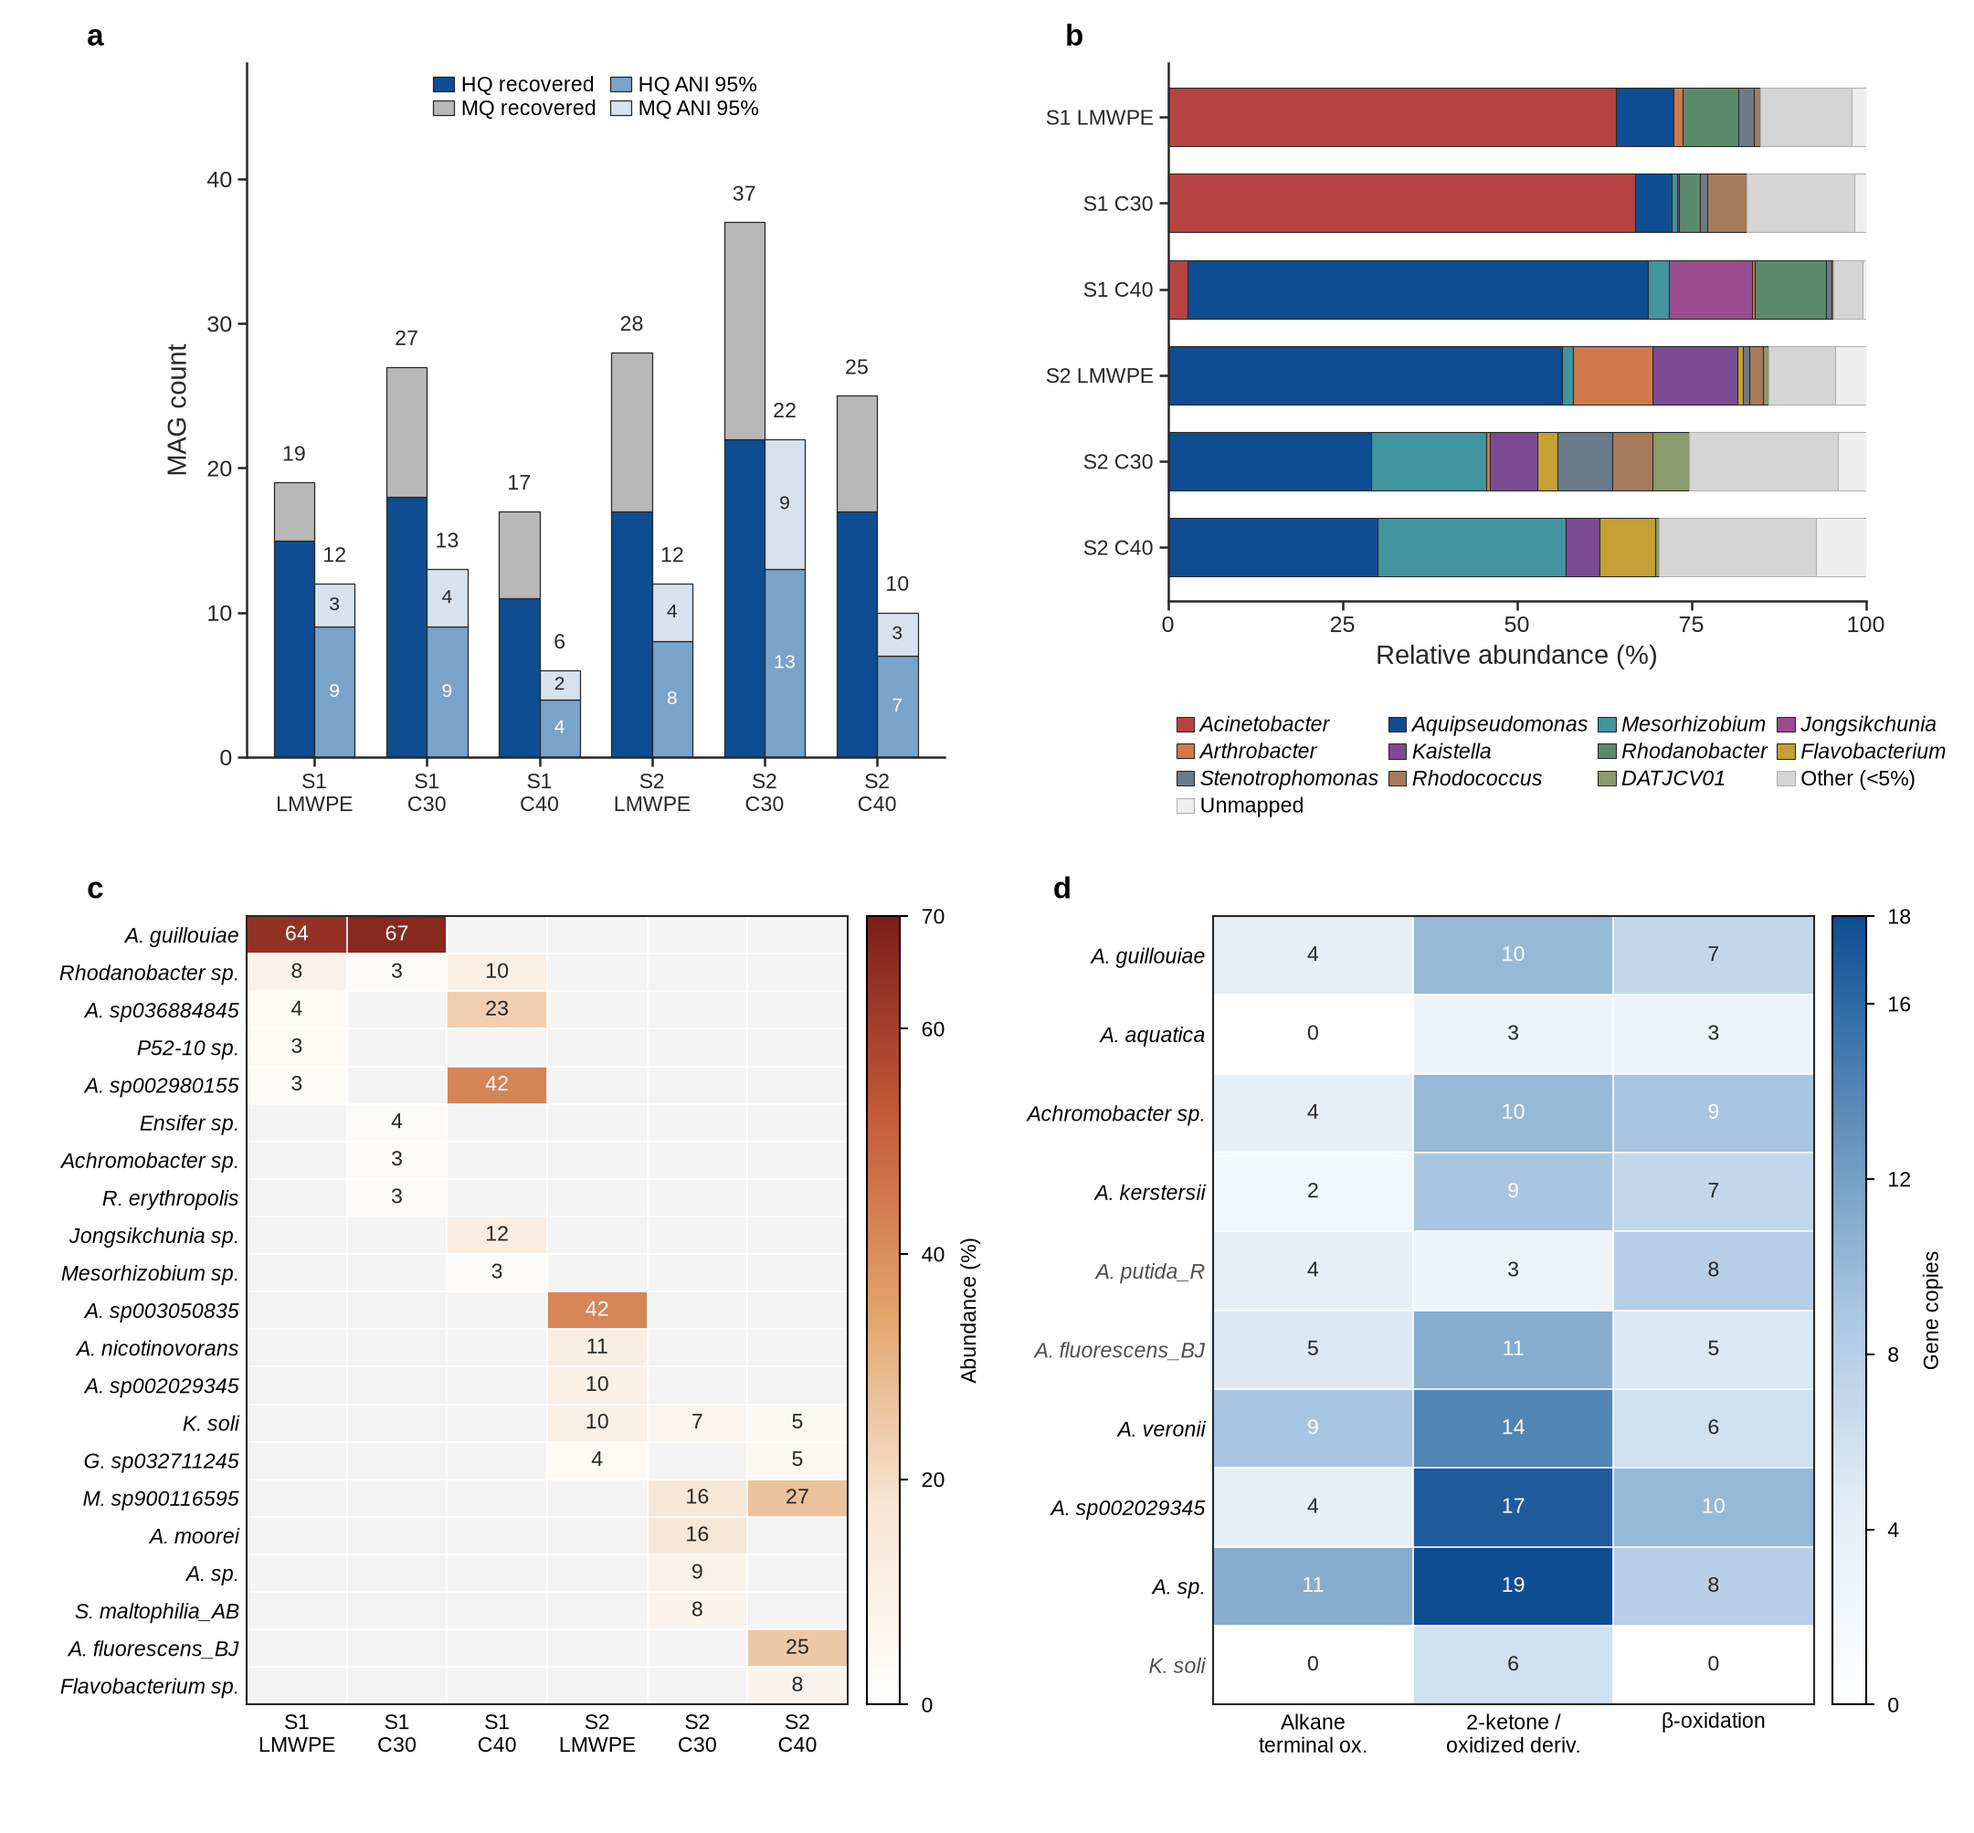
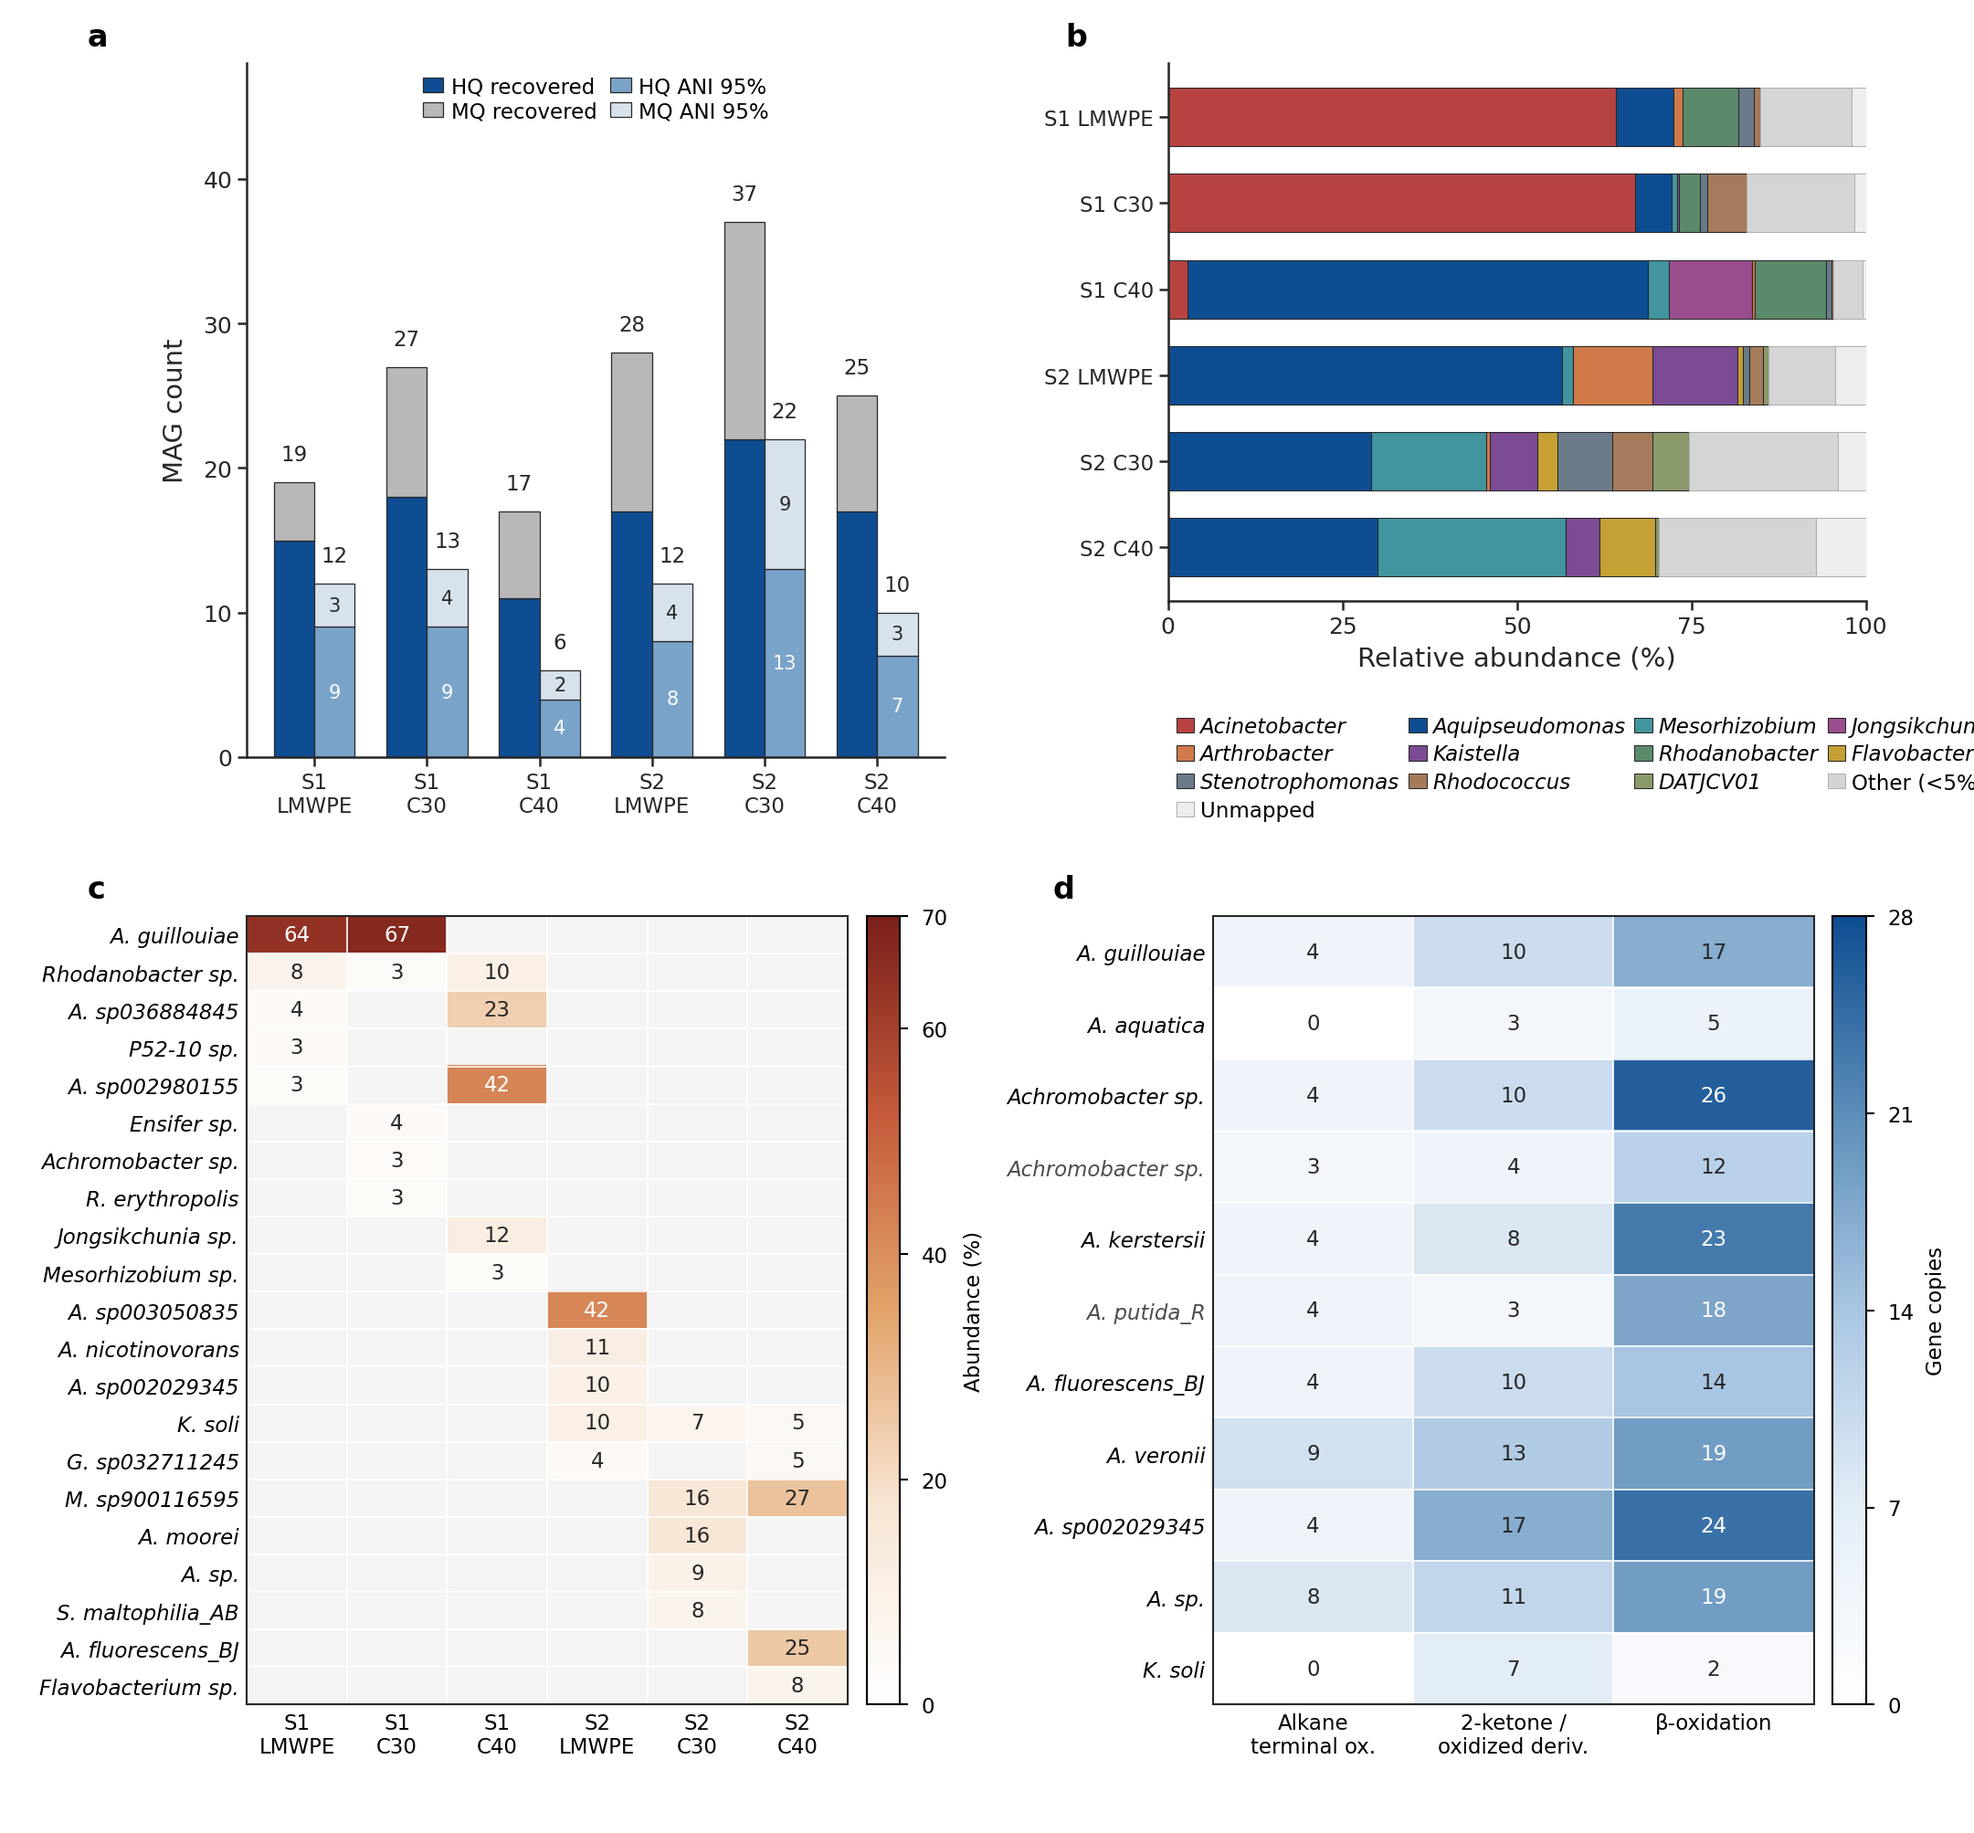
updated

diff --git a/papers/main.tex b/papers/main.tex
@@ -470,17 +470,16 @@ interest in the original study
 in the reference taxonomy.
 
 To examine the metabolic potential of the ten taxonomic groups emphasized
-in the original study, functional annotation was performed on one
-representative MAG from each group.
-The annotations identified genes associated with the three metabolic
-processes examined in the original study (\cref{fig:mag}d).
-Genes associated with alkane terminal oxidation
-were annotated in eight MAGs, while those associated with 2-ketone or
-oxidized-derivative metabolism were detected in all ten.  Nine MAGs
-contained genes assigned to the $\beta$-oxidation module M00087.
-Eight MAGs contained annotations spanning all three categories,
-indicating that the corresponding genetic potential was distributed
-across multiple taxa of interest.
+in the original study, functional annotation was performed on the
+95\% ANI representative genome of each recovered group.  \textit{Achromobacter} sp.\
+formed two ANI clusters, so both representatives were annotated
+(11 MAGs; \cref{fig:mag}d).
+Genes associated with alkane terminal oxidation were annotated in nine of
+these MAGs.  Genes associated with 2-ketone or oxidized-derivative
+metabolism, and genes assigned to the $\beta$-oxidation module M00087,
+were detected in all 11.  Nine MAGs contained annotations spanning all
+three categories, indicating that the corresponding genetic potential was
+distributed across multiple taxa of interest.
 
 \begin{figure}[htbp]
   \centering
@@ -490,10 +489,12 @@ across multiple taxa of interest.
     thresholds defined in Methods, before and after 95\% ANI dereplication.
     (b) Genus-level MAG composition.  (c) Species among the five most abundant
     MAGs in at least one sample.  (d) Numbers of genes annotated using
-    eggNOG-mapper in one representative MAG per target taxon for alkane
-    terminal oxidation, 2-ketone or oxidized-derivative metabolism, and
-    $\beta$-oxidation (M00087).  Counts represent annotated genes rather
-    than distinct functional types or transcript abundance.}
+    eggNOG-mapper in the 95\% ANI representative MAG of each target group
+    for alkane terminal oxidation, 2-ketone or oxidized-derivative
+    metabolism, and $\beta$-oxidation (M00087).  \textit{Achromobacter} sp.\
+    occupies two rows because it formed two ANI clusters.  Grey names are
+    medium-quality MAGs.  Counts represent annotated genes rather than
+    distinct functional types or transcript abundance.}
   \label{fig:mag}
 \end{figure}
 

diff --git a/papers/figures/figure_captions.md b/papers/figures/figure_captions.md
@@ -10,7 +10,7 @@ Fig. X (`papers\figures\Case-study-2-Fig_composite.png`)| Case study 2: species-
 
 ---
 
-Fig. X (`papers\figures\Case-study-3-Fig_composite.png`)| Case study 3: MAG recovery, community composition and metabolic potential in LMWPE, C30 and C40 enrichment cultures. a, Numbers of high- and medium-quality MAGs reconstructed from LMWPE, C30 and C40 enrichment cultures established from the original S1 and S2 soil communities, before and after dereplication at 95% average nucleotide identity (ANI). b, Genus-level composition of the recovered MAGs based on CoverM abundance estimates; genera below 5% in all samples are grouped as “Other”. c, CoverM abundances of species ranked among the five most abundant in at least one sample. Grey cells indicate species outside a sample’s top five, not necessarily absent from that sample. d, Counts of genes annotated by eggNOG for alkane oxidation, 2-ketone degradation and β-oxidation in a representative MAG from each focal taxon.
+Fig. X (`papers\figures\Case-study-3-Fig_composite.png`)| Case study 3: MAG recovery, community composition and metabolic potential in LMWPE, C30 and C40 enrichment cultures. a, Numbers of high- and medium-quality MAGs reconstructed from LMWPE, C30 and C40 enrichment cultures established from the original S1 and S2 soil communities, before and after dereplication at 95% average nucleotide identity (ANI). b, Genus-level composition of the recovered MAGs based on CoverM abundance estimates; genera below 5% in all samples are grouped as “Other”. c, CoverM abundances of species ranked among the five most abundant in at least one sample. Grey cells indicate species outside a sample’s top five, not necessarily absent from that sample. d, Counts of genes annotated by eggNOG-mapper for alkane terminal oxidation, 2-ketone or oxidized-derivative metabolism and β-oxidation (M00087) in the 95% ANI representative of each focal group. Achromobacter sp. occupies two rows because it formed two ANI clusters. Grey names are medium-quality MAGs.
 ---
 
 Fig. X (`papers\figures\microbioagent-architecture-image2-v7`) | MicroBioAgent system architecture. User requests and local workspace prompts enter an OpenClaw harness that binds the conversation to an analysis job, discovers and reviews relevant skills, constructs an analysis plan, dispatches individual steps and executes them. The agent dynamically selects study-appropriate procedures from a microbiome tool repository and resolves their required resources from a user-configured reference database repository. Upstream and downstream computation for 16S amplicon, reference-based metagenomic and assembly-based metagenomic analysis runs on user-controlled local infrastructure, where raw reads remain local. Figures, tables, reports and biological interpretations are delivered as user-facing results, while intermediate files, generated code, parameters, logs and software/database versions form the reproducibility record. During long-running computation, user messages and command-completion events provide separate routes for resuming the same agent session.

diff --git a/papers/supplementary_manifest.md b/papers/supplementary_manifest.md
@@ -49,12 +49,14 @@ source-data package for the robustness and ablation experiments.
 | `case1_metaphlan_versions` | Recorded MetaPhlAn2/3 evidence for the two species highlighted in the source study | Case 1 profiler-version follow-up |
 | `case1_16s_differential` | Genus-level resistant-versus-susceptible differential results | Case 1 results; Supplementary Figure S1 |
 | `case1_shotgun_differential` | Species-level resistant-versus-susceptible differential results | Case 1 results |
+| `case2_community_statistics` | Bray–Curtis PERMANOVA for CRC status, disease stage, sex, age and BMI | Case 2 results |
 | `case2_species_tests` | CRC species-association direction and adjusted significance | Case 2 results |
+| `case2_cooccurrence_edges` | Spearman correlations among the ten differentially abundant species, with raw P, BH q, and the reported-network flag | Case 2 co-occurrence network |
 | `case2_function_tests` | Gene-family and KO significance results | Case 2 functional analysis |
 | `case2_classifier_folds` | Fold-level performance, pooled performance and selected classifier features | Case 2 classifier results |
 | `case3_mag_catalogue` | Dereplicated MAG quality, taxonomy, cluster membership and focal-taxon mapping | Case 3 results |
 | `case3_mag_abundance` | Abundances of MAGs assigned to the focal taxa across enrichment cultures | Case 3 abundance analysis |
-| `case3_functional_annotations` | Gene counts for the three functional categories in the ten selected MAGs | Case 3 functional analysis |
+| `case3_functional_annotations` | Gene counts for the three functional categories in the 11 annotated 95% ANI representative MAGs | Case 3 functional analysis |
 
 ### Open checks before submission
 
@@ -63,11 +65,9 @@ source-data package for the robustness and ablation experiments.
    whereas the Results state that the follow-up recovered both reported taxa.
 2. Regenerate `case3_mag_catalogue`: every value in `source_sample` currently
    contains a serialized pandas method rather than a sample identifier.
-3. Reconcile the functional-analysis MAG identifiers with the representative
-   MAG terminology used in the Results and Methods.
-4. Explain why ten focal taxonomic groups correspond to eleven rows in
+3. Explain why ten focal taxonomic groups correspond to eleven rows in
    `case3_mag_abundance` (two MAGs are assigned to `Achromobacter sp.`).
-5. Add a workbook README/data dictionary defining fields, missing values,
+4. Add a workbook README/data dictionary defining fields, missing values,
    statistical adjustment and the distinction between raw `P` and adjusted
    `q` values.
 
